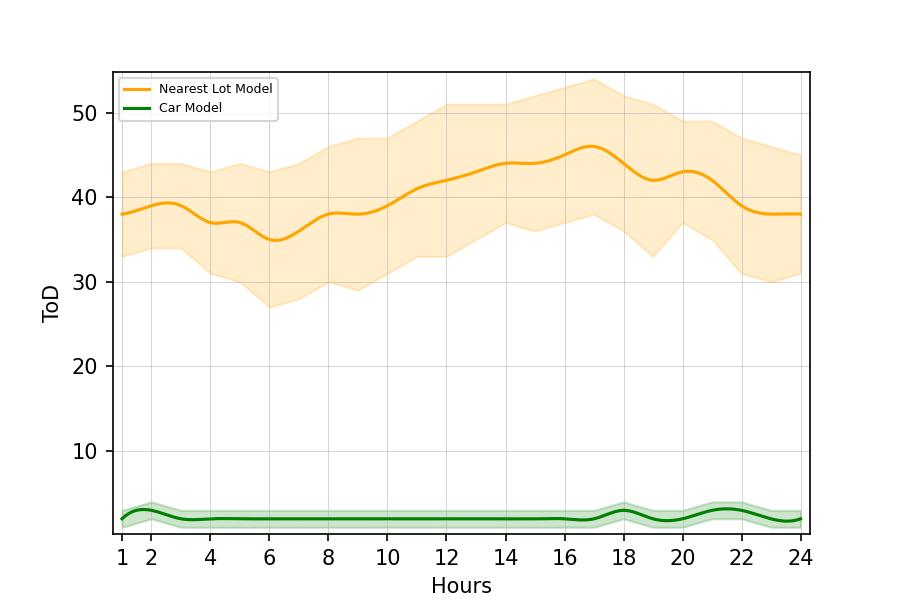
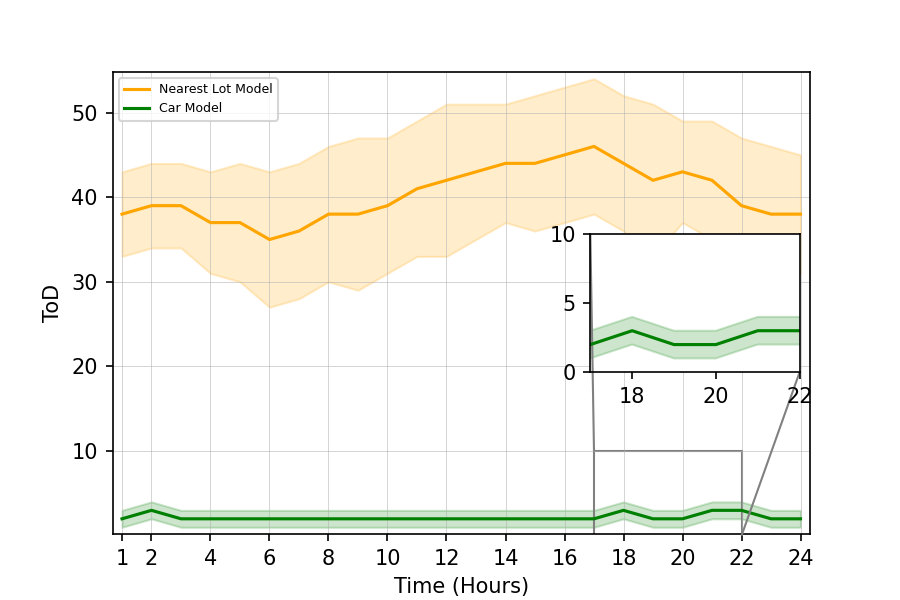
A zoom tool is added.

diff --git a/SPS/src/Simulator.py b/SPS/src/Simulator.py
@@ -5,6 +5,7 @@ import numpy as np
 from scipy.stats import norm
 from scipy.interpolate import make_interp_spline
 import matplotlib.pyplot as plt
+from mpl_toolkits.axes_grid1.inset_locator import inset_axes, mark_inset
 
 plt.rcParams['grid.linewidth'] = 0.25
 
@@ -306,14 +307,16 @@ class Simulator:
                 x = self.xAxises['hours']
                 y1 = averages[0]
                 y2 = averages[1]
-
+                
+                """
                 for g in gap:
                     for i, gapNumber in enumerate(g):
                         gapError[i] += abs(gapNumber - averages[0][i])
 
                 averageErrors = [round(x / self.data_num) for x in gapError]
-
-                x_label = 'Hours'
+                """
+                
+                x_label = 'Time (Hours)'
                 y1_label = 'Total of Differences (ToD)'
                 y2_label = 'Cars'
 
@@ -322,13 +325,15 @@ class Simulator:
                 y1 = averages[2]
                 y2 = averages[1]
 
+                """
                 for p in people:
                     for i, peopleNumber in enumerate(p):
                         peopleError[i] += abs(peopleNumber - averages[1][i])
 
                 averageErrors = [round(x / self.data_num) for x in peopleError]
+                """
 
-                x_label = 'Hours'
+                x_label = 'Time (Hours)'
                 y1_label = 'People'
                 y2_label = 'Cars'
 
@@ -352,12 +357,12 @@ class Simulator:
             plt.xticks(self.xAxisTicks['halfHours'])
             ax1.set_xlabel(x_label)
 
-            ax1.errorbar(x, y1, yerr=averageErrors, ecolor='black', capsize=2.5, capthick=0.5, linewidth=0.15, linestyle='None')
+            # ax1.errorbar(x, y1, yerr=averageErrors, ecolor='black', capsize=2.5, capthick=0.5, linewidth=0.15, linestyle='None')
 
             lines = [line1, line2]
             labels = [line.get_label() for line in lines]
 
-            plt.legend(lines, labels, loc='upper left')
+            plt.legend(lines, labels, loc='upper left', fontsize='8')
             ax1.grid(linewidth=0.25)
                         
             plt.show()
@@ -488,7 +493,7 @@ class Simulator:
         averages = [[[round(sum(nums) / len(nums)) for nums in group] for group in transposed_lists[0]],
                     [[round(sum(nums) / len(nums)) for nums in group] for group in transposed_lists[1]]]
         
-        x_label = 'Hours'
+        x_label = 'Time (Hours)'
         y_label = 'ToD'
 
         if comparisonType == 'people-near':
@@ -526,49 +531,31 @@ class Simulator:
         y2 = np.array(y2)
         
         # Fill Between
-        plt.figure(figsize=(6,4), dpi=150)
+        fig, ax = plt.subplots(figsize=(6, 4), dpi=150)
         
-        plt.scatter(x, y1, color='orange', label=y1_label)
-        plt.fill_between(x, y1 - averageErrors[0], y1 + averageErrors[0], color='orange', alpha=0.2)
-        plt.scatter(x, y2, color='green', label=y2_label)
-        plt.fill_between(x, y2 - averageErrors[1], y2 + averageErrors[1], color='green', alpha=0.2)
+        ax.plot(x, y1, color='orange', label=y1_label)
+        ax.fill_between(x, y1 - averageErrors[0], y1 + averageErrors[0], color='orange', alpha=0.2)
+        ax.plot(x, y2, color='green', label=y2_label)
+        ax.fill_between(x, y2 - averageErrors[1], y2 + averageErrors[1], color='green', alpha=0.2)
 
-        plt.xlabel(x_label)
-        plt.ylabel(y_label)
+        ax.set_xlabel(x_label)
+        ax.set_ylabel(y_label)
+        ax.set_xticks(self.xAxisTicks['halfHours'])
+        ax.legend(fontsize='6', loc='upper left')
+        ax.grid(linewidth=0.25)
+        ax.margins(x=0.014, y=0.015)
 
-        plt.xticks(self.xAxisTicks['halfHours'])
+        inset_size = "30%"
+        axins = inset_axes(ax, width=inset_size, height=inset_size, loc='center right') 
+        axins.plot(x, y1, color='orange')
+        axins.fill_between(x, y1 - averageErrors[0], y1 + averageErrors[0], color='orange', alpha=0.2)
+        axins.plot(x, y2, color='green')
+        axins.fill_between(x, y2 - averageErrors[1], y2 + averageErrors[1], color='green', alpha=0.2)
 
-        plt.legend(fontsize='6', loc='upper left')
-        plt.grid(linewidth=0.25)
-        plt.margins(x=0.014, y=0.015)
-        
-        # Error Bar
-        plt.figure(figsize=(6,4), dpi=150)
-            
-        plt.scatter(x, y1, marker='o', color='blue', label=y1_label)
-        plt.scatter(x, y2, marker='o', color='red', label=y2_label)
-        plt.errorbar(x, y1, yerr=averageErrors[0], ecolor='black', capsize=2.5, capthick=0.5, linewidth=0.15, linestyle='None')
-        plt.errorbar(x, y2, yerr=averageErrors[1], ecolor='black', capsize=2.5, capthick=0.5, linewidth=0.15, linestyle='None')
-        
-        plt.xlabel(x_label)
-        plt.ylabel(y_label)
+        axins.set_xlim(17, 22)
+        axins.set_ylim(0, 10)
 
-        plt.xticks(self.xAxisTicks['halfHours'])
-
-        plt.legend(fontsize='6', loc='upper left')
-        plt.grid(linewidth=0.25)
-        plt.margins(x=0.014, y=0.015)
-
-        #Heat Map
-        plt.figure(figsize=(6,4), dpi=150)
-
-        heatmap, xedges, yedges = np.histogram2d(y1, y2, bins=30)
-
-        sns.heatmap(heatmap.T, cmap='Blues', cbar=True, 
-                    xticklabels=10, yticklabels=10)
-
-        plt.xlabel(x_label)
-        plt.ylabel(y_label)
+        mark_inset(ax, axins, loc1=2, loc2=4, fc="none", ec="0.5")
 
         plt.show()
 
